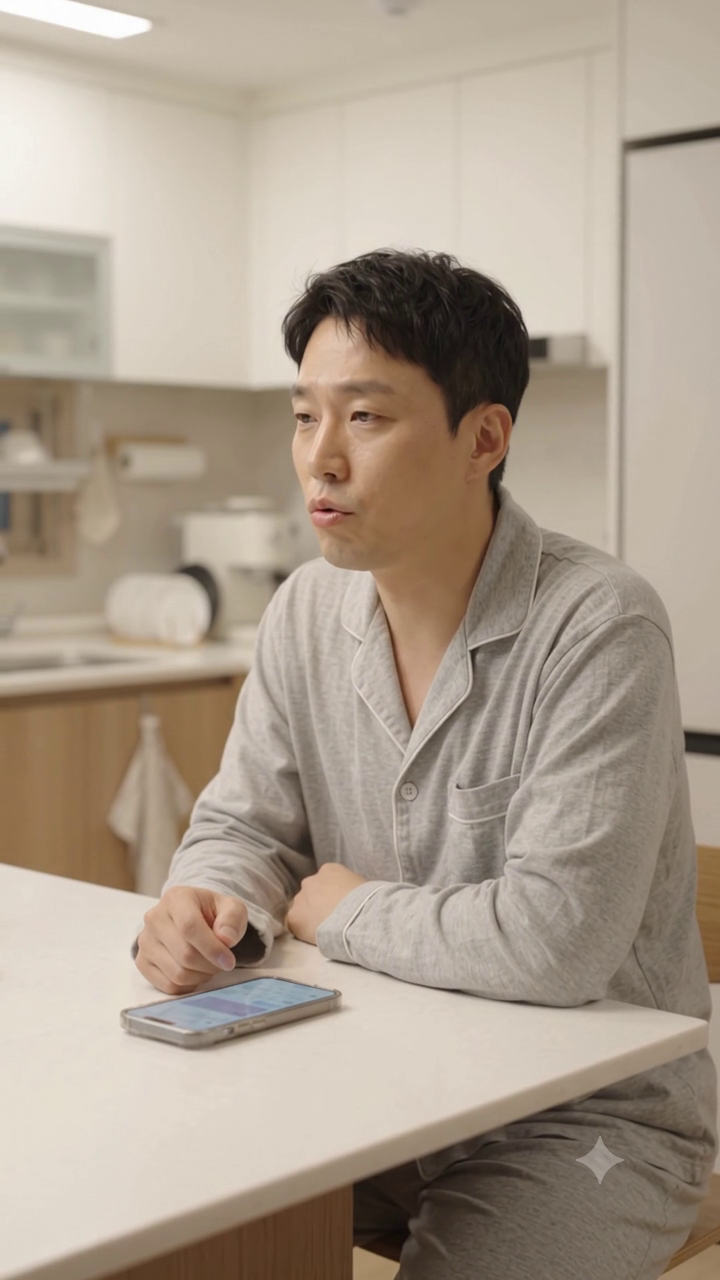
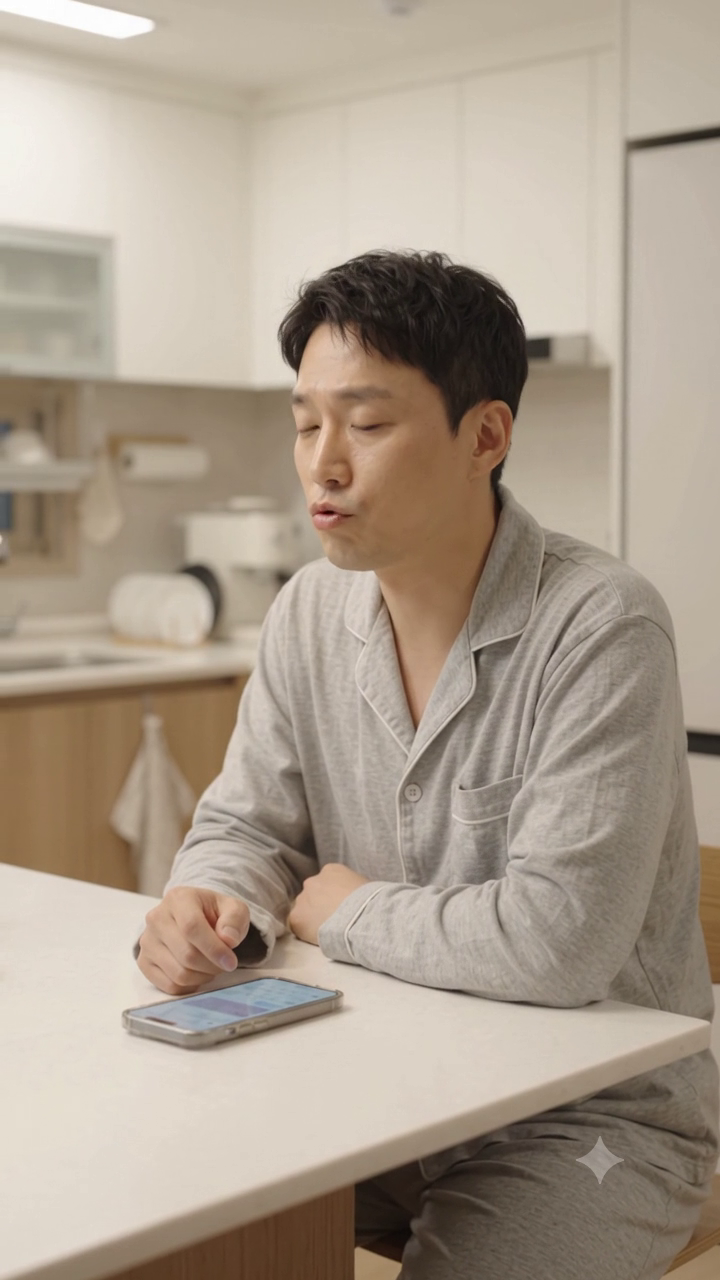
릴스 06편 재수정 — 훅 대사 컷 지점 오디오 페이드아웃 추가

diff --git a/my-video/src/Reel6ChatbotDemo.tsx b/my-video/src/Reel6ChatbotDemo.tsx
@@ -11,16 +11,20 @@ const DEMO_VIDEO = "reel6_chatbot_demo.mp4";
 // ---- 훅 원본 타임코드(30fps 기준 프레임) ----
 // silencedetect + 파형 확인으로 실측: 대사 전체("아, 레시피 찾는 것도 너무 일이고 귀찮네")는 4.5~7.6s에서
 // 들리지만, "귀찮네"까지 다 들으면 문장이 길고 어색하다는 지적으로 "일이고" 뒤 자연스러운 숨쉬기 간격
-// (약 6.6~6.9s에 실제로 파형이 끊기는 지점 있음)에서 끊고 "귀찮네"는 들리지 않게 컷. 잘린 느낌이 들지
-// 않도록 컷 지점의 정지 프레임(reel6_hook_freeze.png)을 1초 홀드한 뒤에야 리액션으로 넘어간다.
+// (약 6.6~6.9s에 실제로 파형이 끊기는 지점 있음)에서 끊고 "귀찮네"는 들리지 않게 컷.
+// 1차 수정(정지 프레임 1초 홀드)에도 "그냥 잘린 느낌이 난다"는 재지적 — 원인은 화면이 아니라 오디오가
+// 볼륨 그대로 뚝 끊겨서 생기는 위화감이었음. AUDIO_FADE_OUT 프레임만큼 볼륨을 서서히 줄이고(자연스러운
+// 말끝 트레일링오프 느낌), 컷 지점도 6.6s→6.8s로 살짝 늦춰 원본 자체에 있는 여유(숨쉬는 간격)를 더
+// 살리고, 홀드도 1.0s→1.2s로 늘려 리액션으로 넘어가기 전 여유를 더 줌.
 const HOOK_RAW = {
-  line: [0, 198], // 0:00–6.6 턱 괴고 검색창 보며 대사("...일이고"까지만, "귀찮네" 전에 컷)
+  line: [0, 204], // 0:00–6.8 턱 괴고 검색창 보며 대사("...일이고"까지만, "귀찮네" 전에 컷)
   turn: [249, 300], // 0:08.3–10.0 다시 폰으로 시선을 내리는 리액션(무음)
 };
-const HOLD_LEN = 30; // 1.0s — 컷 지점에서 바로 안 끊기고 잠깐 멈춘 느낌을 주는 정지 홀드
-const HB1 = HOOK_RAW.line[1] - HOOK_RAW.line[0]; // 198f
+const AUDIO_FADE_OUT = 10; // 0.33s — 컷 직전 볼륨을 서서히 줄여서 뚝 끊기는 느낌을 없앤다
+const HOLD_LEN = 36; // 1.2s — 컷 지점에서 바로 안 끊기고 잠깐 멈춘 느낌을 주는 정지 홀드
+const HB1 = HOOK_RAW.line[1] - HOOK_RAW.line[0]; // 204f
 const HB2 = HOOK_RAW.turn[1] - HOOK_RAW.turn[0]; // 51f
-const HOOK_LEN = HB1 + HOLD_LEN + HB2; // 279f (기존과 총 길이 동일 — 뺀 만큼 홀드로 채움)
+const HOOK_LEN = HB1 + HOLD_LEN + HB2; // 291f
 
 // ---- 데모 원본 타임코드(30fps 기준 프레임) ----
 const DEMO_RAW = {
@@ -85,13 +89,19 @@ const SubClip: React.FC<{
   origin?: string;
   fade?: boolean;
   muted?: boolean;
-}> = ({ src, rawFrom, rawTo, rate, len, width, height, left, zoom = 1, origin = "center", fade = true, muted = true }) => {
+  audioFadeOutFrames?: number;
+}> = ({ src, rawFrom, rawTo, rate, len, width, height, left, zoom = 1, origin = "center", fade = true, muted = true, audioFadeOutFrames = 0 }) => {
   const frame = useCurrentFrame();
   const fadeIn = fade
     ? interpolate(frame, [0, 4], [0, 1], { extrapolateLeft: "clamp", extrapolateRight: "clamp" })
     : 1;
   const fadeOut = fade
     ? interpolate(frame, [len - 5, len - 1], [1, 0], { extrapolateLeft: "clamp", extrapolateRight: "clamp" })
+    : 1;
+  // 오디오를 볼륨 그대로 뚝 끊지 않고 마지막 audioFadeOutFrames 구간에서 서서히 줄인다(하드컷 클릭/뚝
+  // 끊김 방지). muted일 땐 어차피 소리가 없으니 무시.
+  const audioVolume = audioFadeOutFrames
+    ? interpolate(frame, [len - audioFadeOutFrames, len], [1, 0], { extrapolateLeft: "clamp", extrapolateRight: "clamp" })
     : 1;
   return (
     <div
@@ -112,6 +122,7 @@ const SubClip: React.FC<{
         trimAfter={rawTo}
         playbackRate={rate}
         muted={muted}
+        volume={audioVolume}
         style={{
           width: "100%",
           height: "100%",
@@ -138,7 +149,7 @@ const Hook: React.FC = () => {
   return (
     <AbsoluteFill style={{ backgroundColor: WHITE }}>
       <Sequence from={0} durationInFrames={HB1} name="line">
-        <SubClip src={HOOK_VIDEO} rawFrom={HOOK_RAW.line[0]} rawTo={HOOK_RAW.line[1]} rate={1} len={HB1} width={1080} height={1920} left={0} fade={false} muted={false} />
+        <SubClip src={HOOK_VIDEO} rawFrom={HOOK_RAW.line[0]} rawTo={HOOK_RAW.line[1]} rate={1} len={HB1} width={1080} height={1920} left={0} fade={false} muted={false} audioFadeOutFrames={AUDIO_FADE_OUT} />
       </Sequence>
       <Sequence from={holdFrom} durationInFrames={HOLD_LEN} name="hold">
         <HookFreeze />
